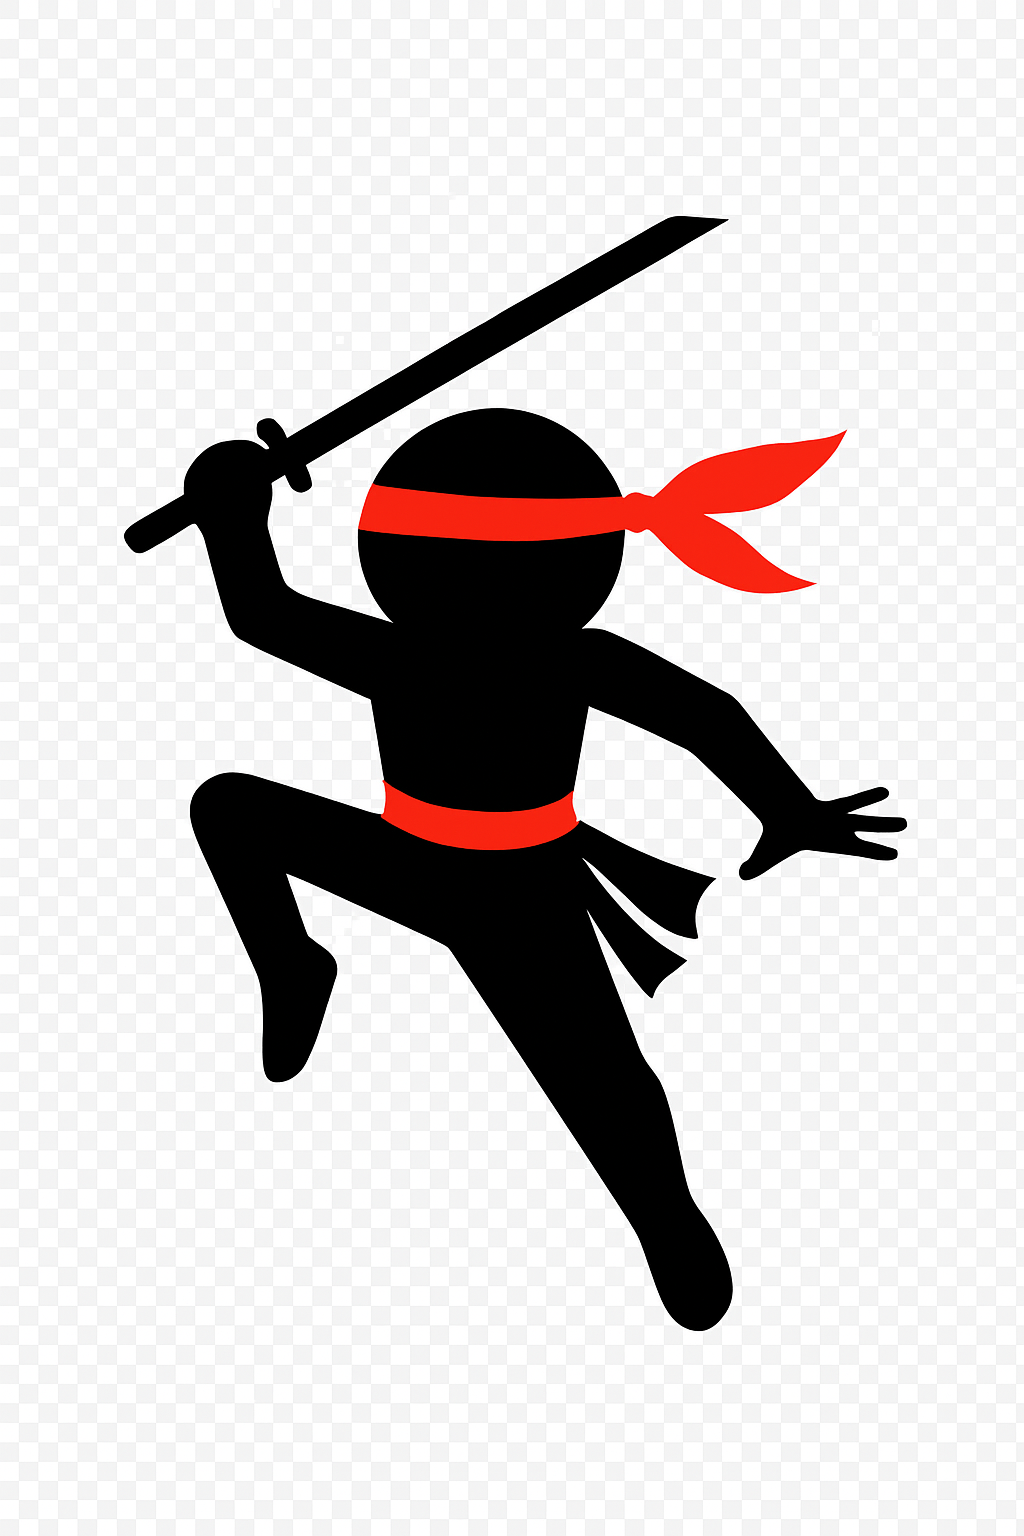
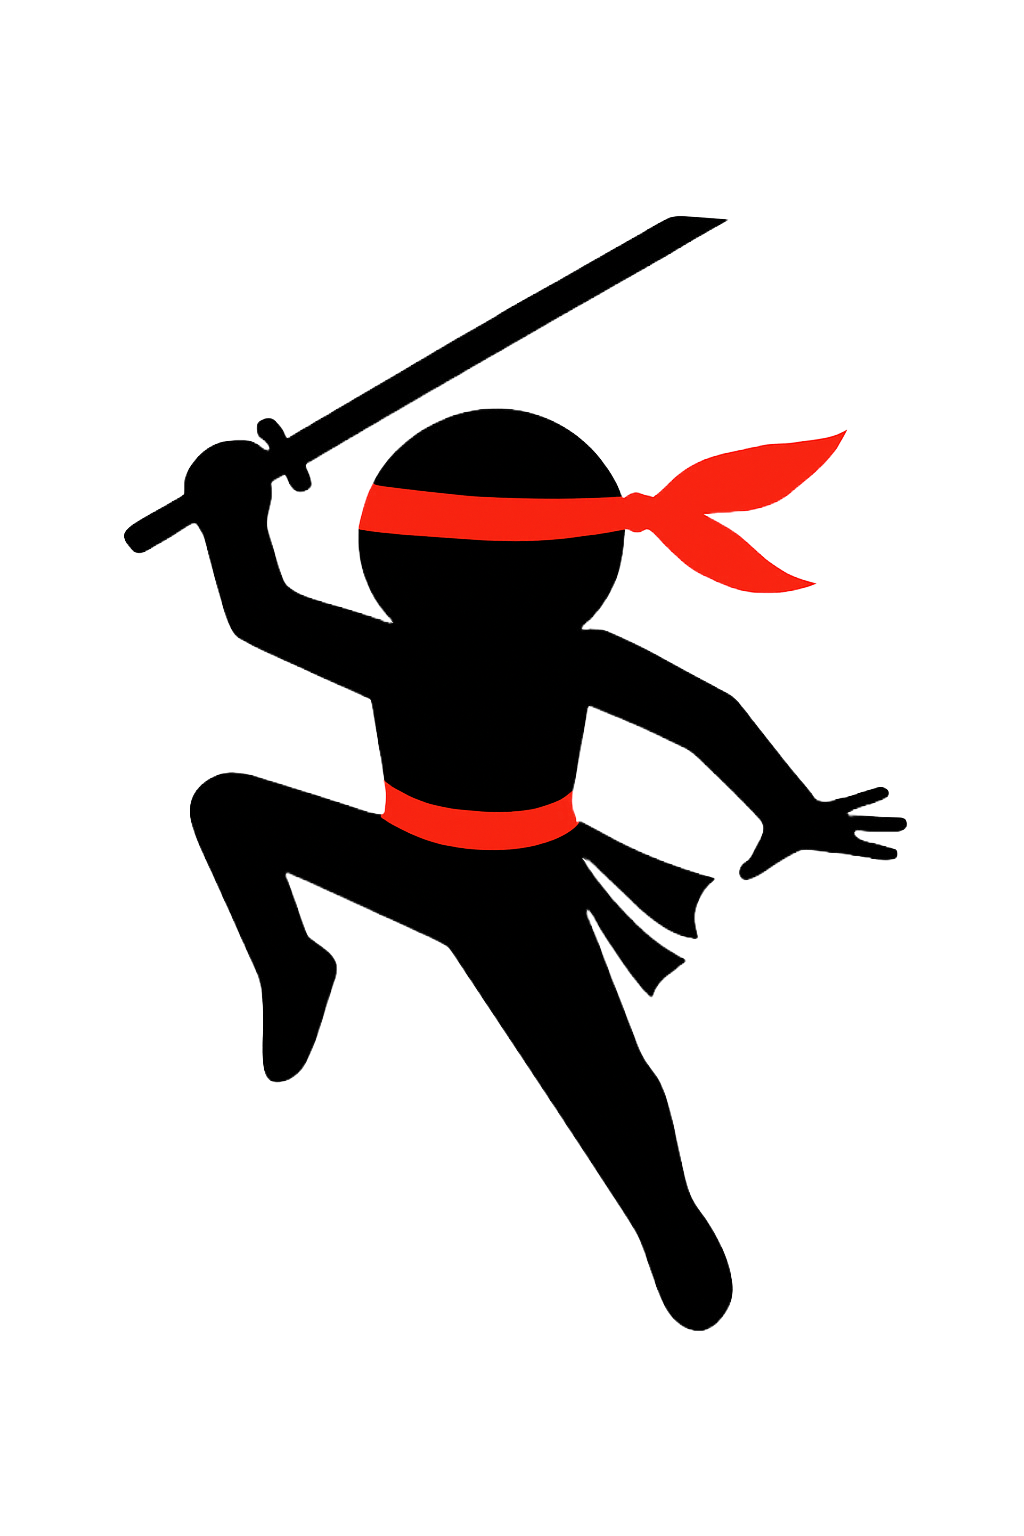
排行榜畫面，細節還須處理

Changed region(s): [[0.5625, 0.5938, 0.5938, 0.625]]

diff --git a/Scenes/LeaderboardScene.js b/Scenes/LeaderboardScene.js
@@ -6,7 +6,8 @@ import { LocalStorageController } from "../Data/LocalStorageController.js";
 import { SceneEnum }              from "../SceneEnum.js";
 import { SceneManager }           from "../SceneManager.js";
 import { WIDTH, HEIGHT, ASSETS }  from "../G.js";
-
+import { PoseTracker } from "../Objects/APIs/PoseTracker.js";
+import { PoseHandler } from "../Objects/APIs/PoseHandler.js";
 export class LeaderboardScene extends IScene {
   static instance = null;
 
@@ -14,6 +15,12 @@ export class LeaderboardScene extends IScene {
     if (LeaderboardScene.instance) return LeaderboardScene.instance;
     super(p);
     LeaderboardScene.instance = this;
+    this.pose_handler = new PoseHandler(p);
+      this.pose_image   = new DrawableImage(this.p);
+    this.prevRightUp = false;
+    this.func_to_Menu = () => {
+      SceneManager.instance.changeScene(SceneEnum.MENU);
+    };
     this.init();
   }
 
@@ -36,7 +43,7 @@ export class LeaderboardScene extends IScene {
 
     // 左側：簡單模式
     this.easyTitle = new DrawableText(this.p, "簡單模式", 36);
-    this.easyTitle.position.set(WIDTH*0.25, 140);
+    this.easyTitle.position.set(WIDTH*0.25 + 50, 140);
     this.easyTitle.textAlign = this.p.CENTER;
     this.add(this.easyTitle);
 
@@ -79,15 +86,24 @@ export class LeaderboardScene extends IScene {
       this.hardRows.push({ img: hImg, txt: hTxt });
     }
 
-    // ← 返回
-    this.back = new DrawableText(this.p, "← 返回", 28);
-    this.back.position.set(40, HEIGHT - 40);
-    this.back.textAlign = this.p.LEFT;
-    this.back.isInteractive = true;
-    this.back.onClick = () => {
-      SceneManager.instance.changeScene(SceneEnum.MENU);
-    };
-    this.add(this.back);
+    this.unsword = new DrawableImage(this.p);
+    this.unsword.setImage(ASSETS.unsword);
+    this.unsword.position.set(430, 150);
+    this.unsword.width = 250;
+    this.unsword.height = 375;
+    this.add(this.unsword);
+
+    this.sword = new DrawableImage(this.p);
+    this.sword.setImage(ASSETS.sword);
+    this.sword.position.set(430, 150);
+    this.sword.width = 275;
+    this.sword.height = 412;
+    this.sword.visible = false;
+    this.add(this.sword);
+
+    this.t1 = new DrawableText(this.p, "右手舉起\n回到主畫面", 25);
+    this.t1.position.set(WIDTH /2 - 50, 500);
+    this.add(this.t1);
   }
 
   _on_enter() {
@@ -129,5 +145,18 @@ export class LeaderboardScene extends IScene {
   }
 
   _on_update(_delta) {
+    this.pose_handler.update(_delta)
+    this.pose_image.src = PoseTracker.get_instance(this.p).getVideo();
+    const tracker = PoseTracker.get_instance(this.p);
+    const isRightUp  = tracker.get_is_righ_hand_up();
+    if (isRightUp && !this.prevRightUp) {
+      ASSETS.ace.play();
+    }
+    this.prevRightUp = isRightUp;
+    this.unsword.visible = !isRightUp;
+    this.sword.visible =  isRightUp;
+    if(this.pose_handler.is_righ_counter_reached()){
+      this.func_to_Menu()
+    }
   }
 }

diff --git a/Scenes/MenuScene.js b/Scenes/MenuScene.js
@@ -106,7 +106,7 @@ export class MenuScene extends IScene{
         this.btn_open.position.set(WIDTH / 2 - 65, 550);
         this.btn_open.width = 170;
         this.btn_open.height = 170;
-        this.btn_open.isActive = false;
+        this.btn_open.visible = false;
         this.add(this.btn_open);
         
         // ✅ Hard 按鈕圖片
@@ -122,7 +122,7 @@ export class MenuScene extends IScene{
         this.btn_skeleton.position.set(600, 540);
         this.btn_skeleton.width = 200;
         this.btn_skeleton.height = 200;
-        this.btn_skeleton.isActive = false;
+        this.btn_skeleton.visible = false;
         this.add(this.btn_skeleton);
         
 
@@ -189,13 +189,13 @@ export class MenuScene extends IScene{
         
         this.add(this.title2);
 
-        // let func_to_scor =()=> {
-        //     SceneManager.instance.changeScene(SceneEnum.SCORE)
-        // }
-        // let go_score_button = new RectButton(this.p,300,100,func_to_scor)
-        // go_score_button.position.x = 800
-        // go_score_button.position.y = 600
-        // MenuScene.instance.add(go_score_button)
+        let func_to_scor =()=> {
+            SceneManager.instance.changeScene(SceneEnum.SCORE)
+        }
+        let go_score_button = new RectButton(this.p,300,100,func_to_scor)
+        go_score_button.position.x = 800
+        go_score_button.position.y = 600
+        MenuScene.instance.add(go_score_button)
 
 
 

diff --git a/Scenes/ScoreScene.js b/Scenes/ScoreScene.js
@@ -225,18 +225,9 @@ import { IndexedDBHelper } from "../Objects/APIs/IndexedDBHelper.js";
             portrait: portraitBase64
         });
         console.log(`已將 ${mode} 模式、分數 ${score} 與頭像存入排行榜`);
-
-        // 5. Ace 音效結束後再 loop BGM
-        const ace = ASSETS.ace;
-        ace.addCue(ace.duration(), () => {
-            this.bgmManager.playLoop(ASSETS.bgm_score_view);
-        });
-        ace.play();
         }
 
         _on_update(_delta){
-            // 比如放在 ScoreScene.init() 最後
-            console.log(">> leaderboardIcon:", ASSETS.leaderboardIcon);
 
             // super.update(_delta);
             this.pose_handler.update(_delta)

diff --git a/sketch.js b/sketch.js
@@ -49,6 +49,7 @@ const main_sketch = (p)=>{
         ASSETS.HpIcon = p.loadImage("assets/hp.png");
         ASSETS.leaderboardScene = p.loadImage("assets/LeaderboardScene.png");
         ASSETS.sword = p.loadImage("assets/sword.png");
+        ASSETS.unsword = p.loadImage("assets/unsword.png");
         ASSETS.leaderboardIcon = p.loadImage("assets/leaderboardIcon.png");
         ASSETS.font = p.loadFont("assets/ttf/Bakudai-Medium.ttf");
         ASSETS.score = p.loadImage("assets/Score.png");

diff --git a/G.js b/G.js
@@ -20,6 +20,7 @@ export const ASSETS = {
     leaderboardScene: null,
     leaderboardIcon: null,
     sword          : null,
+    unsword          : null,
     sfx_knife:    null,
     sfx_shuriken: null,
     sfx_openChest:null,
